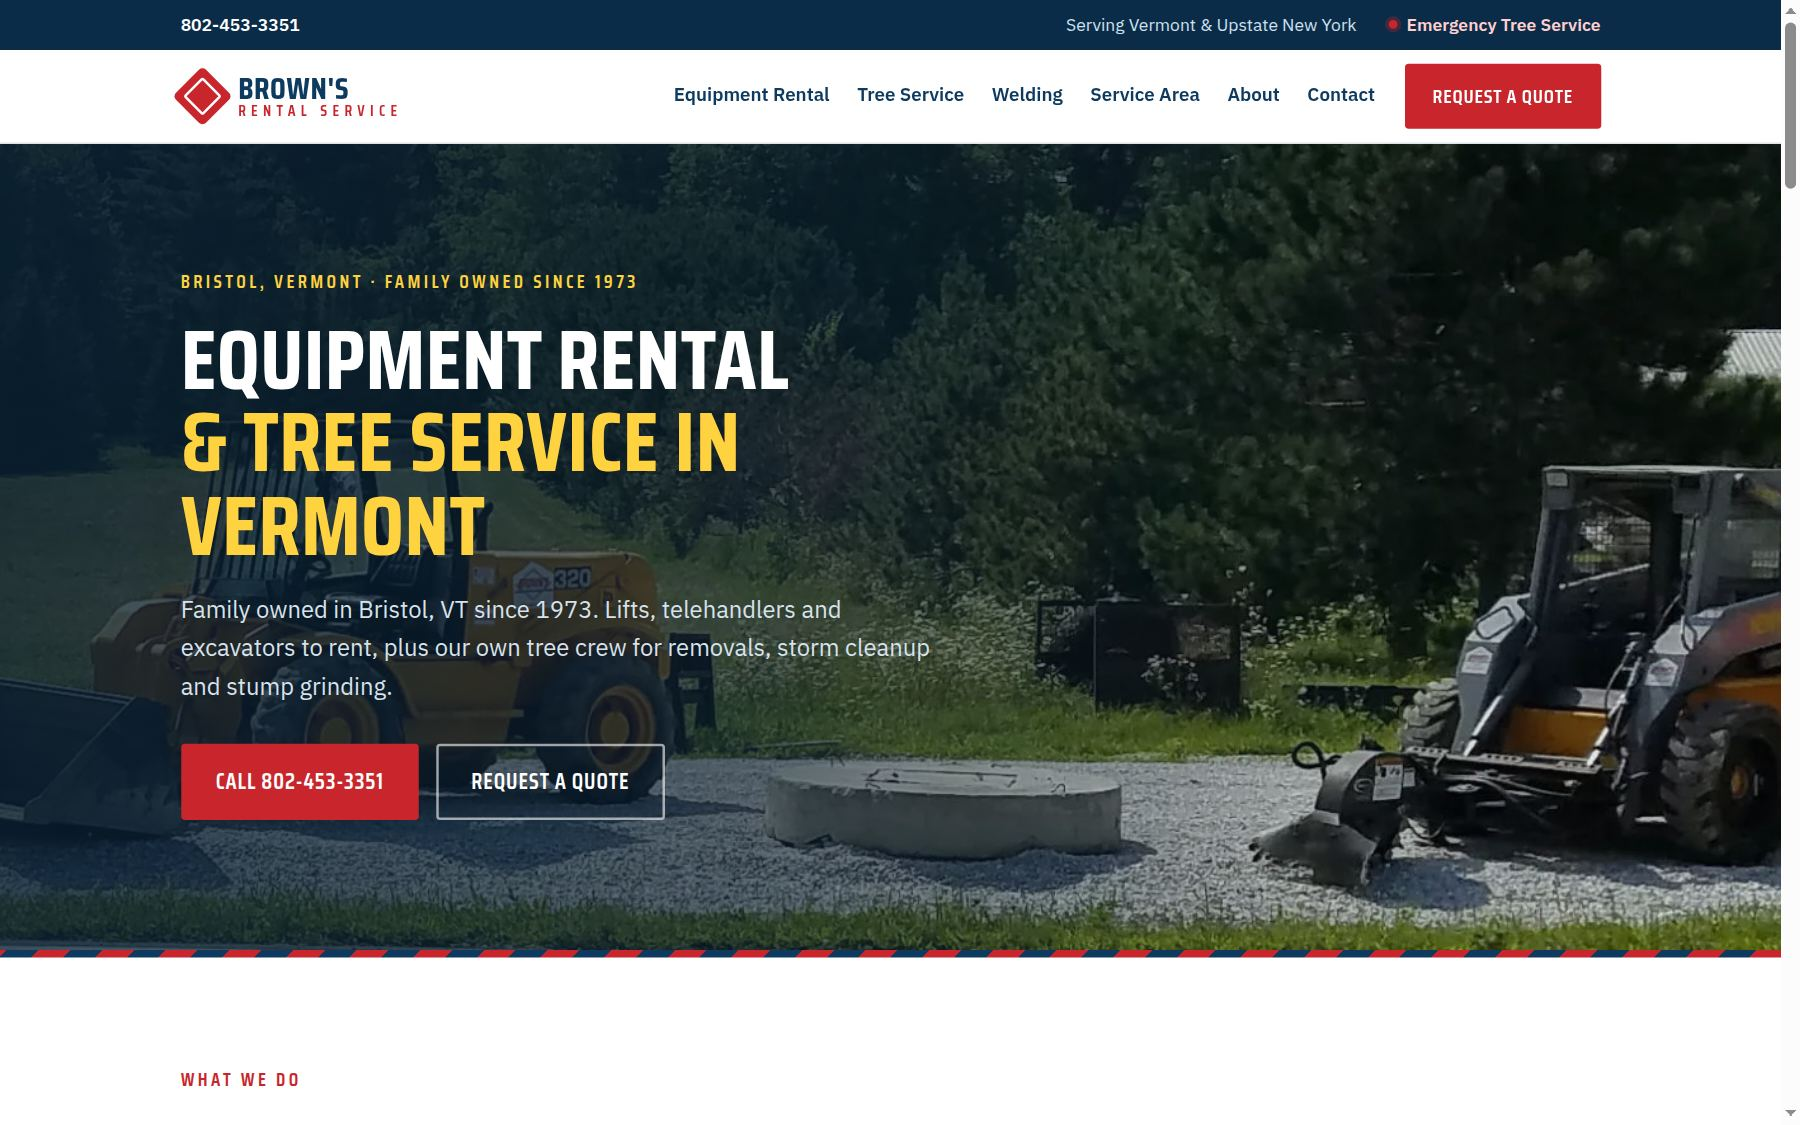
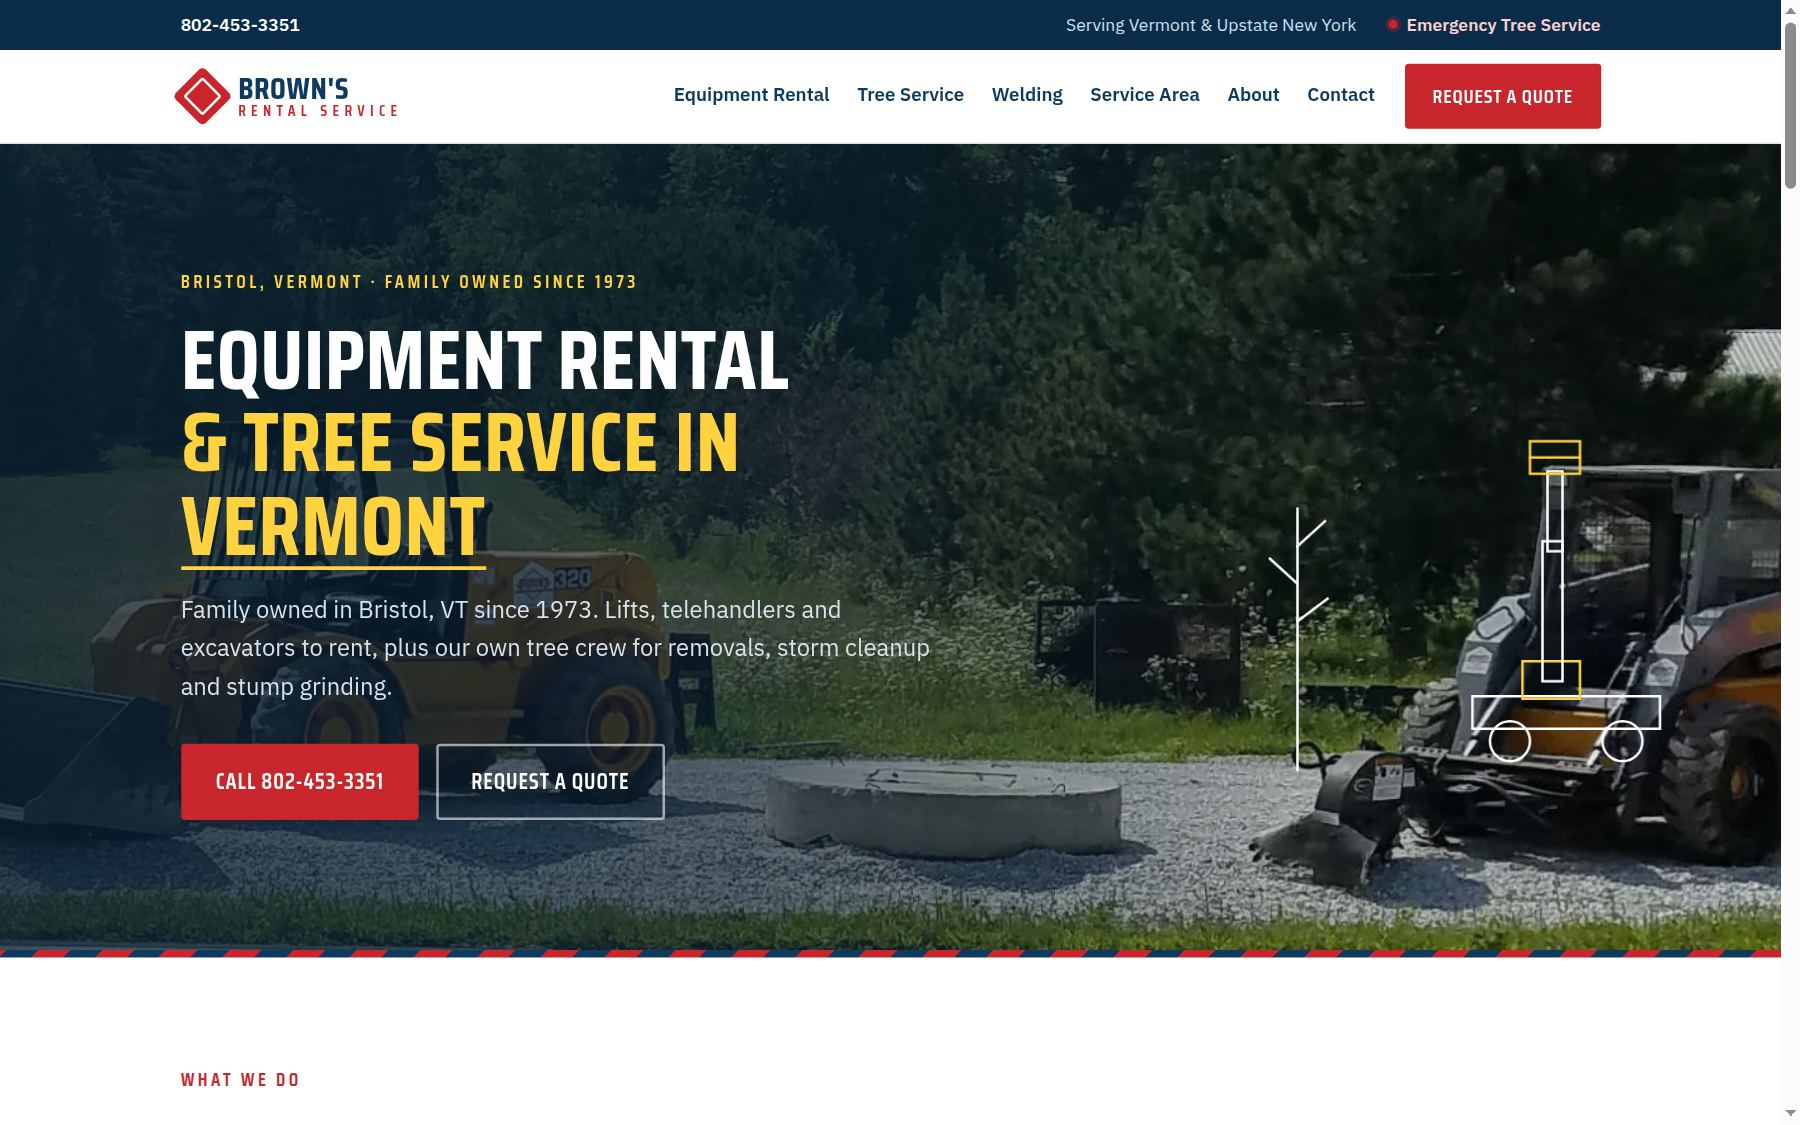
Brown's pitch: refresh home screenshots with animated hero

diff --git a/pitch/browns-rental-service/index.html b/pitch/browns-rental-service/index.html
@@ -341,7 +341,7 @@ footer .wrap{display:flex;justify-content:space-between;flex-wrap:wrap;gap:12px}
 
 <footer><div class="wrap"><span>© 2026 Bristol Business Systems · Bristol, Vermont</span><span>Prepared for Brown&#x27;s Rental Service</span></div></footer>
 
-<script>window.PITCH={"client_name": "Brown's Rental Service", "preview_url": "https://darkslategray-stinkbug-670756.hostingersite.com", "tour": {"heading": "A full site for what you do today.", "lede": "Rentals, tree service and welding, with a page for every machine and every tree job. Pick a page to look around.", "pages": [{"key": "home", "label": "Home", "path": "/", "notes": [["Rentals and trees up front", "What you do today, in priority order: equipment rental, tree service, then welding."], ["Call or quote in one tap", "A big phone button and a Request a Quote button on every page, phone or computer."], ["Your own photos", "Your fleet, your crew and Craig on the job. No stock pictures."]]}, {"key": "rental", "label": "Equipment Rental", "path": "/equipment-rental/", "notes": [["A page for every machine type", "Boom lifts, scissor lifts, telehandlers, skid steers and mini excavators, each with its own page."], ["Quotes, not price lists", "Specs and a quote button, so you price each job your way."], ["With or without an operator", "Rent the machine on its own or with one of your operators."]]}, {"key": "tree", "label": "Tree Service", "path": "/tree-service/", "notes": [["A page for every tree job", "Removals, large trees by crane, emergencies, storm cleanup, trimming and stump grinding."], ["Your crane, front and centre", "The tree crew that brings its own crane for the biggest trees."], ["Built to climb on Google", "Each page matches what people search for in Addison and Chittenden counties."]]}, {"key": "quote", "label": "Request a Quote", "path": "/request-a-quote/", "notes": [["A short, plain form", "Rentals, trees or welding. A few lines about the job is enough."], ["No request gets lost", "Every request is emailed to you and saved as a backup."], ["Phone still first", "Your main line and toll-free number sit right beside the form."]]}]}, "plans": [{"id": "A", "name": "Website", "short": "Website", "tag": "Start here", "price": 79, "desc": "The new 23-page site for rentals, tree service and welding, with quote forms and your review link, plus domain, hosting, security, backups, updates, and small changes.", "includes": ["<strong>23-page website<\/strong> for rentals, trees and welding", "Quote requests emailed to you", "Old page addresses forward to the new pages", "Domain, hosting, security, backups", "Updates and small changes included", "Listed on <strong>bristolbusinessdirect.com<\/strong>"]}, {"id": "B", "name": "Website + customer system", "short": "Website + customer system", "price": 129, "price_suffix": "/mo total", "desc": "Everything in A. Every quote request lands in your own customer list with its job history, the customer gets an instant \"got your request\" email, and they can book an estimate from your open times.", "includes": ["<strong>Everything in A<\/strong>", "Quote requests land in your customer list", "Instant \"got your request\" email", "Customers book estimates from your open times", "Each customer's job history in one place", "Listed on <strong>bristolbusinessdirect.com<\/strong>"]}], "calc": {"lede": "People search for a lift rental or a tree service at night and call whoever answers online first. Move the sliders to match your business.", "leads_label": "New people who find you online, per week", "leads": 3, "leads_hint": "People who land on your site and send a quote request or call.", "conv": 25, "ticket_label": "Average job", "ticket": 600, "ticket_min": 100, "ticket_max": 3000, "ticket_step": 50, "ticket_hint": "A tree removal often runs $500 to $1,500; a few days' machine rental, a few hundred. Use your own number.", "job_noun": "job", "leads_max": 20, "conv_label": "How many of them become a job"}, "img_base": "/pitch/browns-rental-service/img"};</script>
+<script>window.PITCH={"client_name": "Brown's Rental Service", "preview_url": "https://darkslategray-stinkbug-670756.hostingersite.com", "tour": {"heading": "A full site for what you do today.", "lede": "Rentals, tree service and welding, with a page for every machine and every tree job. Pick a page to look around.", "pages": [{"key": "home", "label": "Home", "path": "/", "notes": [["Rentals and trees up front", "What you do today, in priority order: equipment rental, tree service, then welding."], ["Call or quote in one tap", "A big phone button and a Request a Quote button on every page, phone or computer."], ["Your own photos, brought to life", "The page opens with a short animation over your fleet photo: a lift reaches up and a tree section comes down. Your crew and Craig on the job further down. No stock pictures."]]}, {"key": "rental", "label": "Equipment Rental", "path": "/equipment-rental/", "notes": [["A page for every machine type", "Boom lifts, scissor lifts, telehandlers, skid steers and mini excavators, each with its own page."], ["Quotes, not price lists", "Specs and a quote button, so you price each job your way."], ["With or without an operator", "Rent the machine on its own or with one of your operators."]]}, {"key": "tree", "label": "Tree Service", "path": "/tree-service/", "notes": [["A page for every tree job", "Removals, large trees by crane, emergencies, storm cleanup, trimming and stump grinding."], ["Your crane, front and centre", "The tree crew that brings its own crane for the biggest trees."], ["Built to climb on Google", "Each page matches what people search for in Addison and Chittenden counties."]]}, {"key": "quote", "label": "Request a Quote", "path": "/request-a-quote/", "notes": [["A short, plain form", "Rentals, trees or welding. A few lines about the job is enough."], ["No request gets lost", "Every request is emailed to you and saved as a backup."], ["Phone still first", "Your main line and toll-free number sit right beside the form."]]}]}, "plans": [{"id": "A", "name": "Website", "short": "Website", "tag": "Start here", "price": 79, "desc": "The new 23-page site for rentals, tree service and welding, with quote forms and your review link, plus domain, hosting, security, backups, updates, and small changes.", "includes": ["<strong>23-page website<\/strong> for rentals, trees and welding", "Quote requests emailed to you", "Old page addresses forward to the new pages", "Domain, hosting, security, backups", "Updates and small changes included", "Listed on <strong>bristolbusinessdirect.com<\/strong>"]}, {"id": "B", "name": "Website + customer system", "short": "Website + customer system", "price": 129, "price_suffix": "/mo total", "desc": "Everything in A. Every quote request lands in your own customer list with its job history, the customer gets an instant \"got your request\" email, and they can book an estimate from your open times.", "includes": ["<strong>Everything in A<\/strong>", "Quote requests land in your customer list", "Instant \"got your request\" email", "Customers book estimates from your open times", "Each customer's job history in one place", "Listed on <strong>bristolbusinessdirect.com<\/strong>"]}], "calc": {"lede": "People search for a lift rental or a tree service at night and call whoever answers online first. Move the sliders to match your business.", "leads_label": "New people who find you online, per week", "leads": 3, "leads_hint": "People who land on your site and send a quote request or call.", "conv": 25, "ticket_label": "Average job", "ticket": 600, "ticket_min": 100, "ticket_max": 3000, "ticket_step": 50, "ticket_hint": "A tree removal often runs $500 to $1,500; a few days' machine rental, a few hundred. Use your own number.", "job_noun": "job", "leads_max": 20, "conv_label": "How many of them become a job"}, "img_base": "/pitch/browns-rental-service/img"};</script>
 <script>
 (function(){
   var P=window.PITCH, IMG=P.img_base, SITE=P.preview_url;
